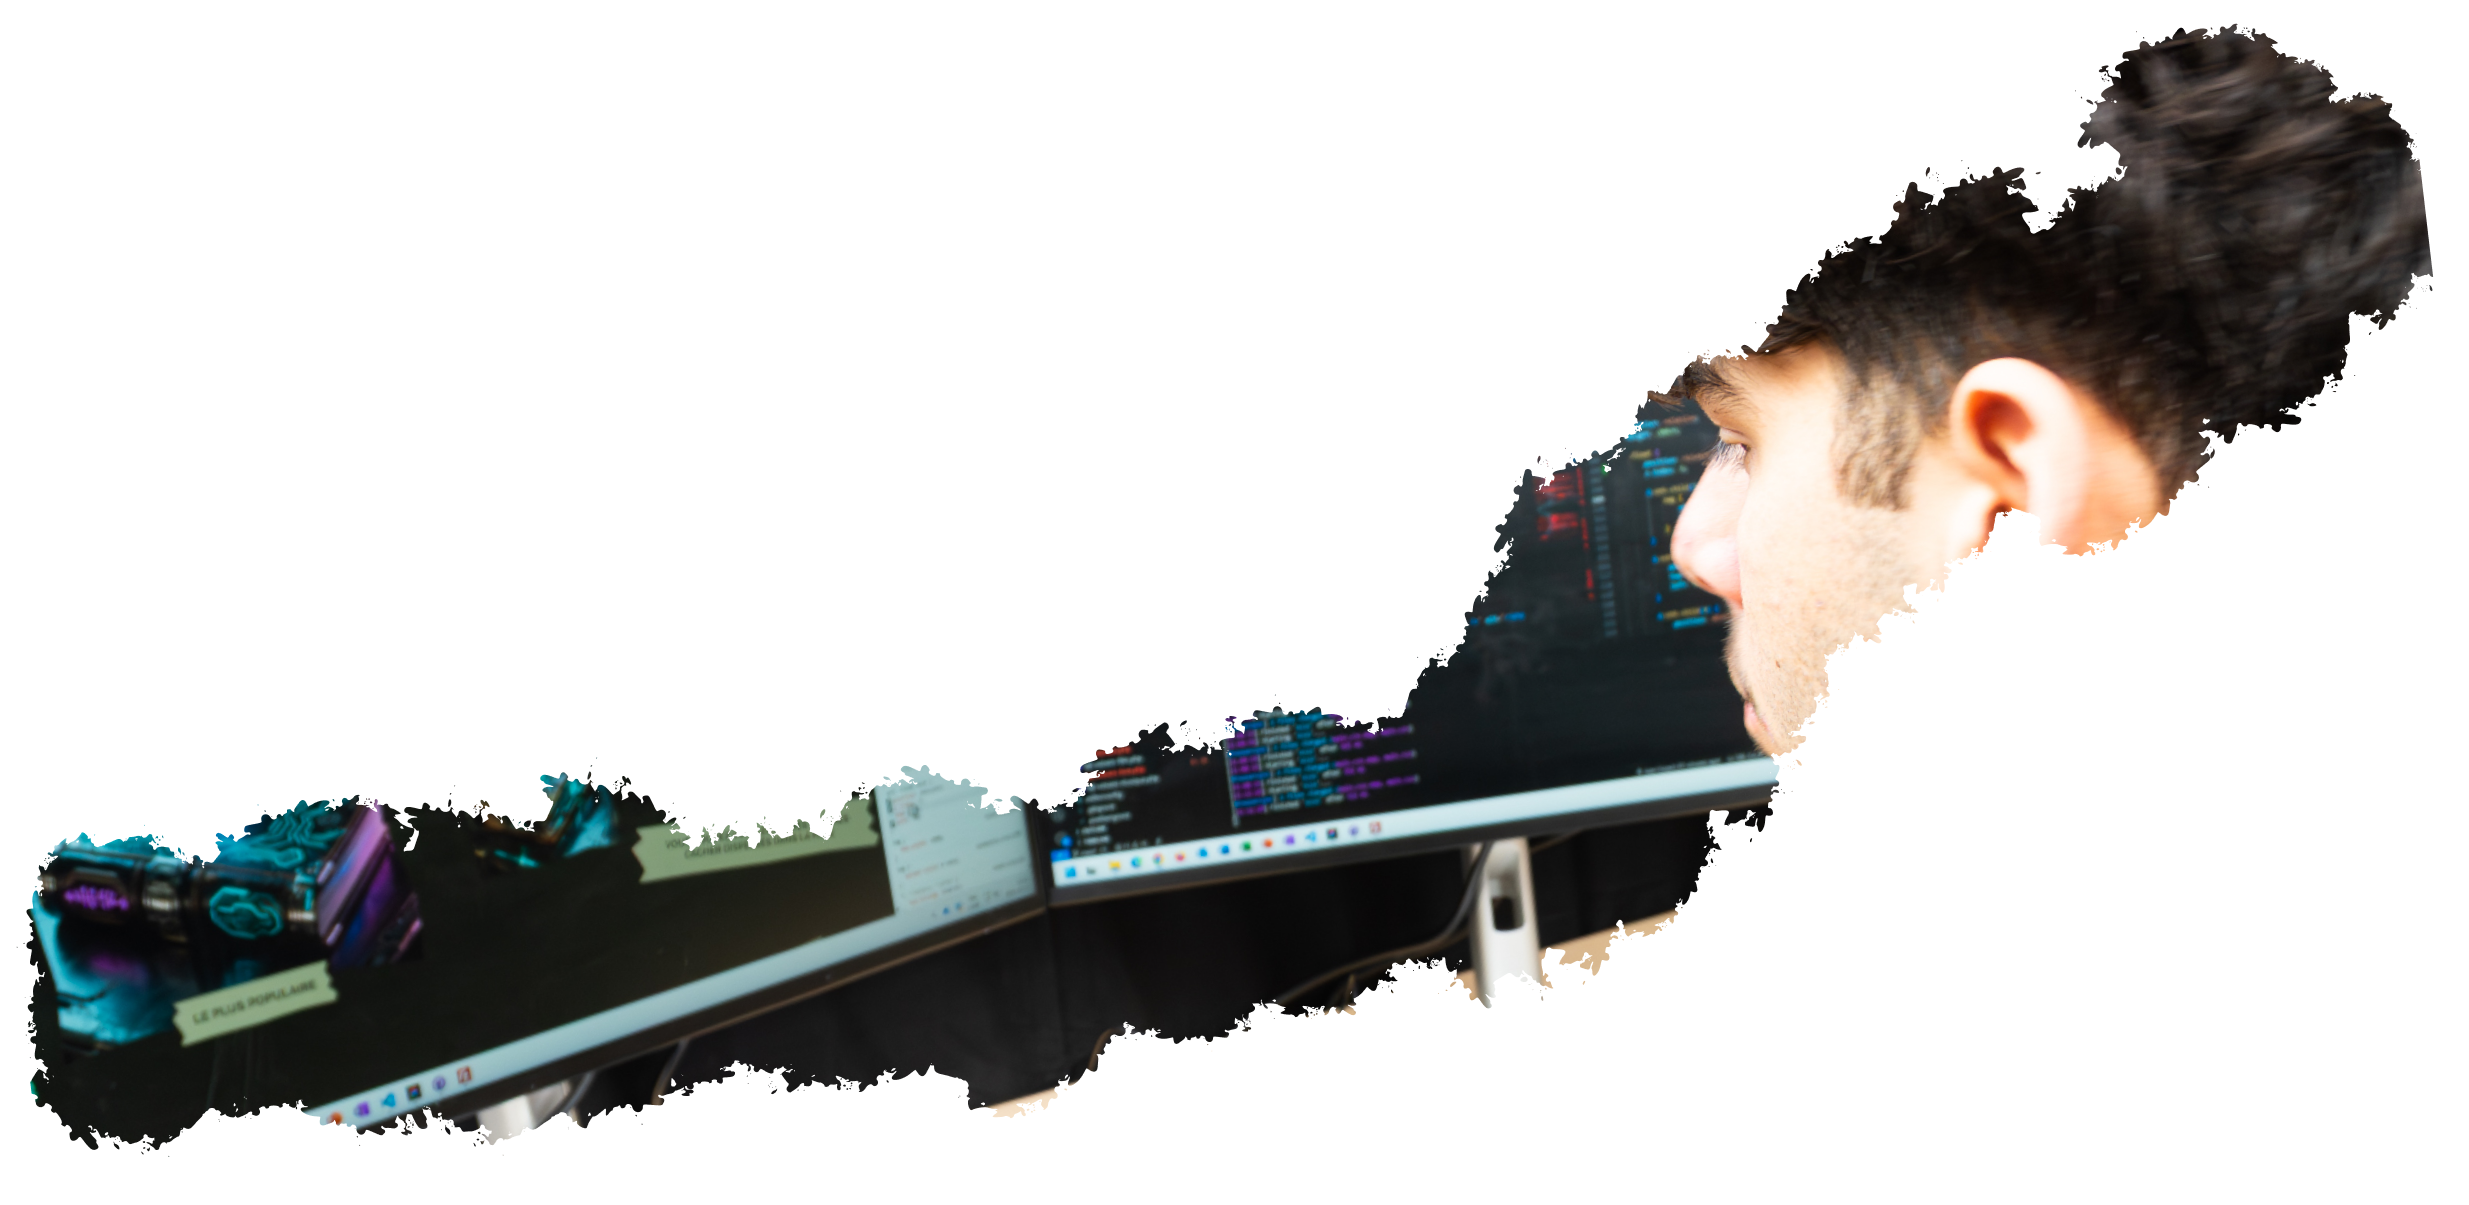
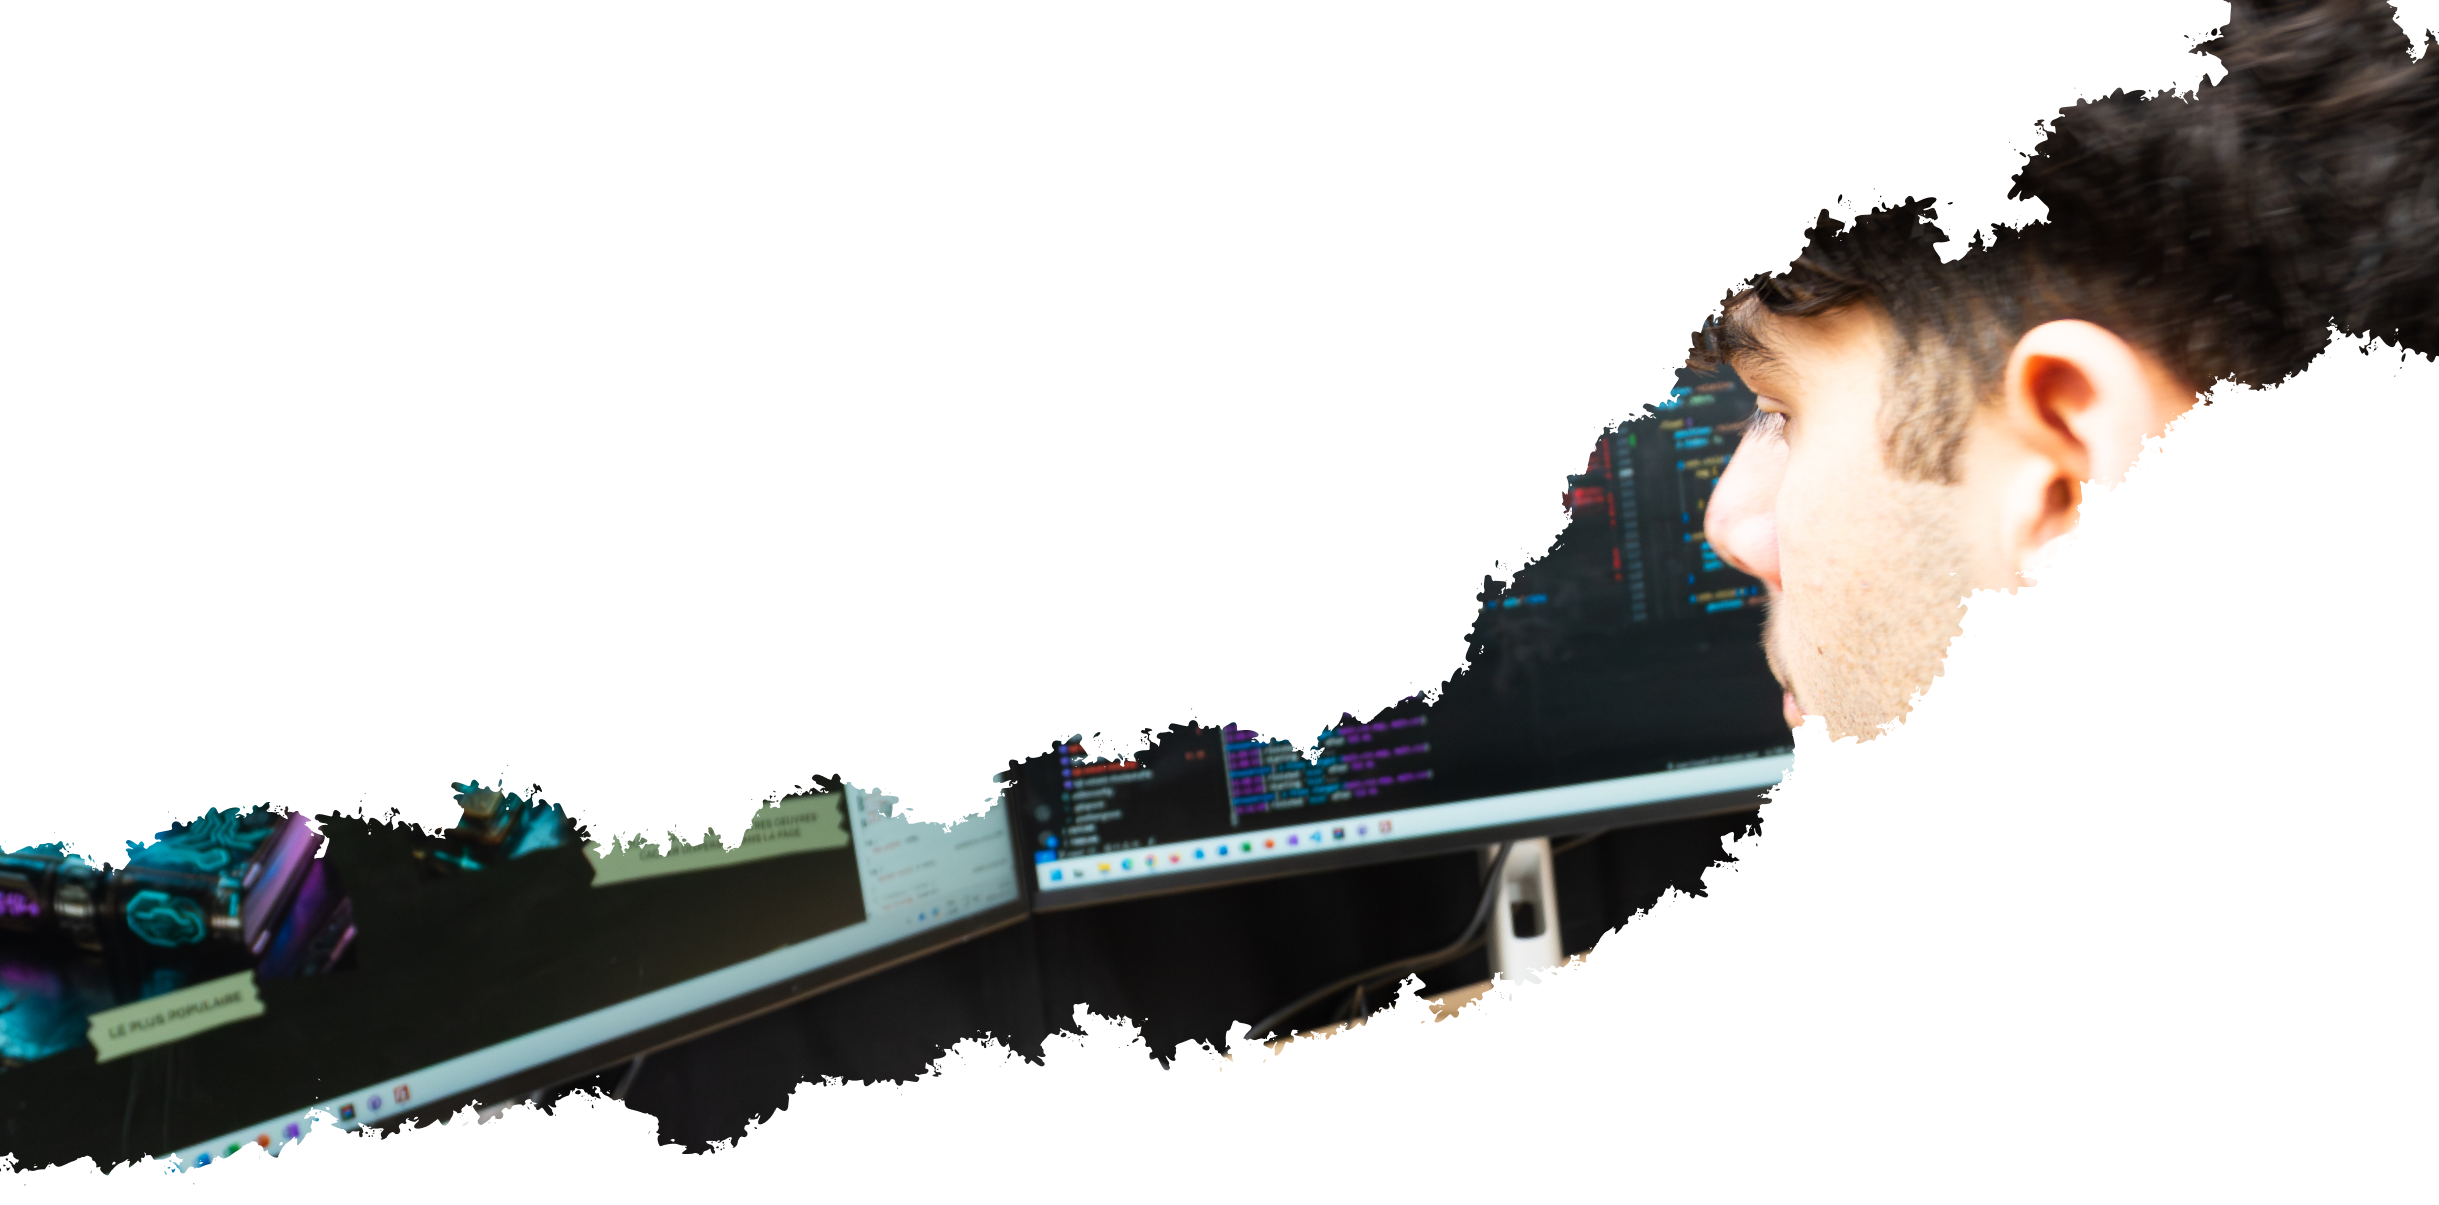
Ajustement grandeur et luminosité de l'image hero accueil

Changed region(s): [[0.0, 0.0, 1.0, 0.9826]]

diff --git a/src/styles/components/hero.scss b/src/styles/components/hero.scss
@@ -1,6 +1,8 @@
 // ----- Section hero (page d'accueil) ----- //
 
 .hero {
+    position: relative;
+
     .wrapper {
         height: 90vh;
         display: flex;
@@ -84,6 +86,6 @@
         top: 5%;
         left: 0;
         z-index: -1;
-        filter: brightness(0.3);
+        filter: brightness(0.5);
     }
 }
